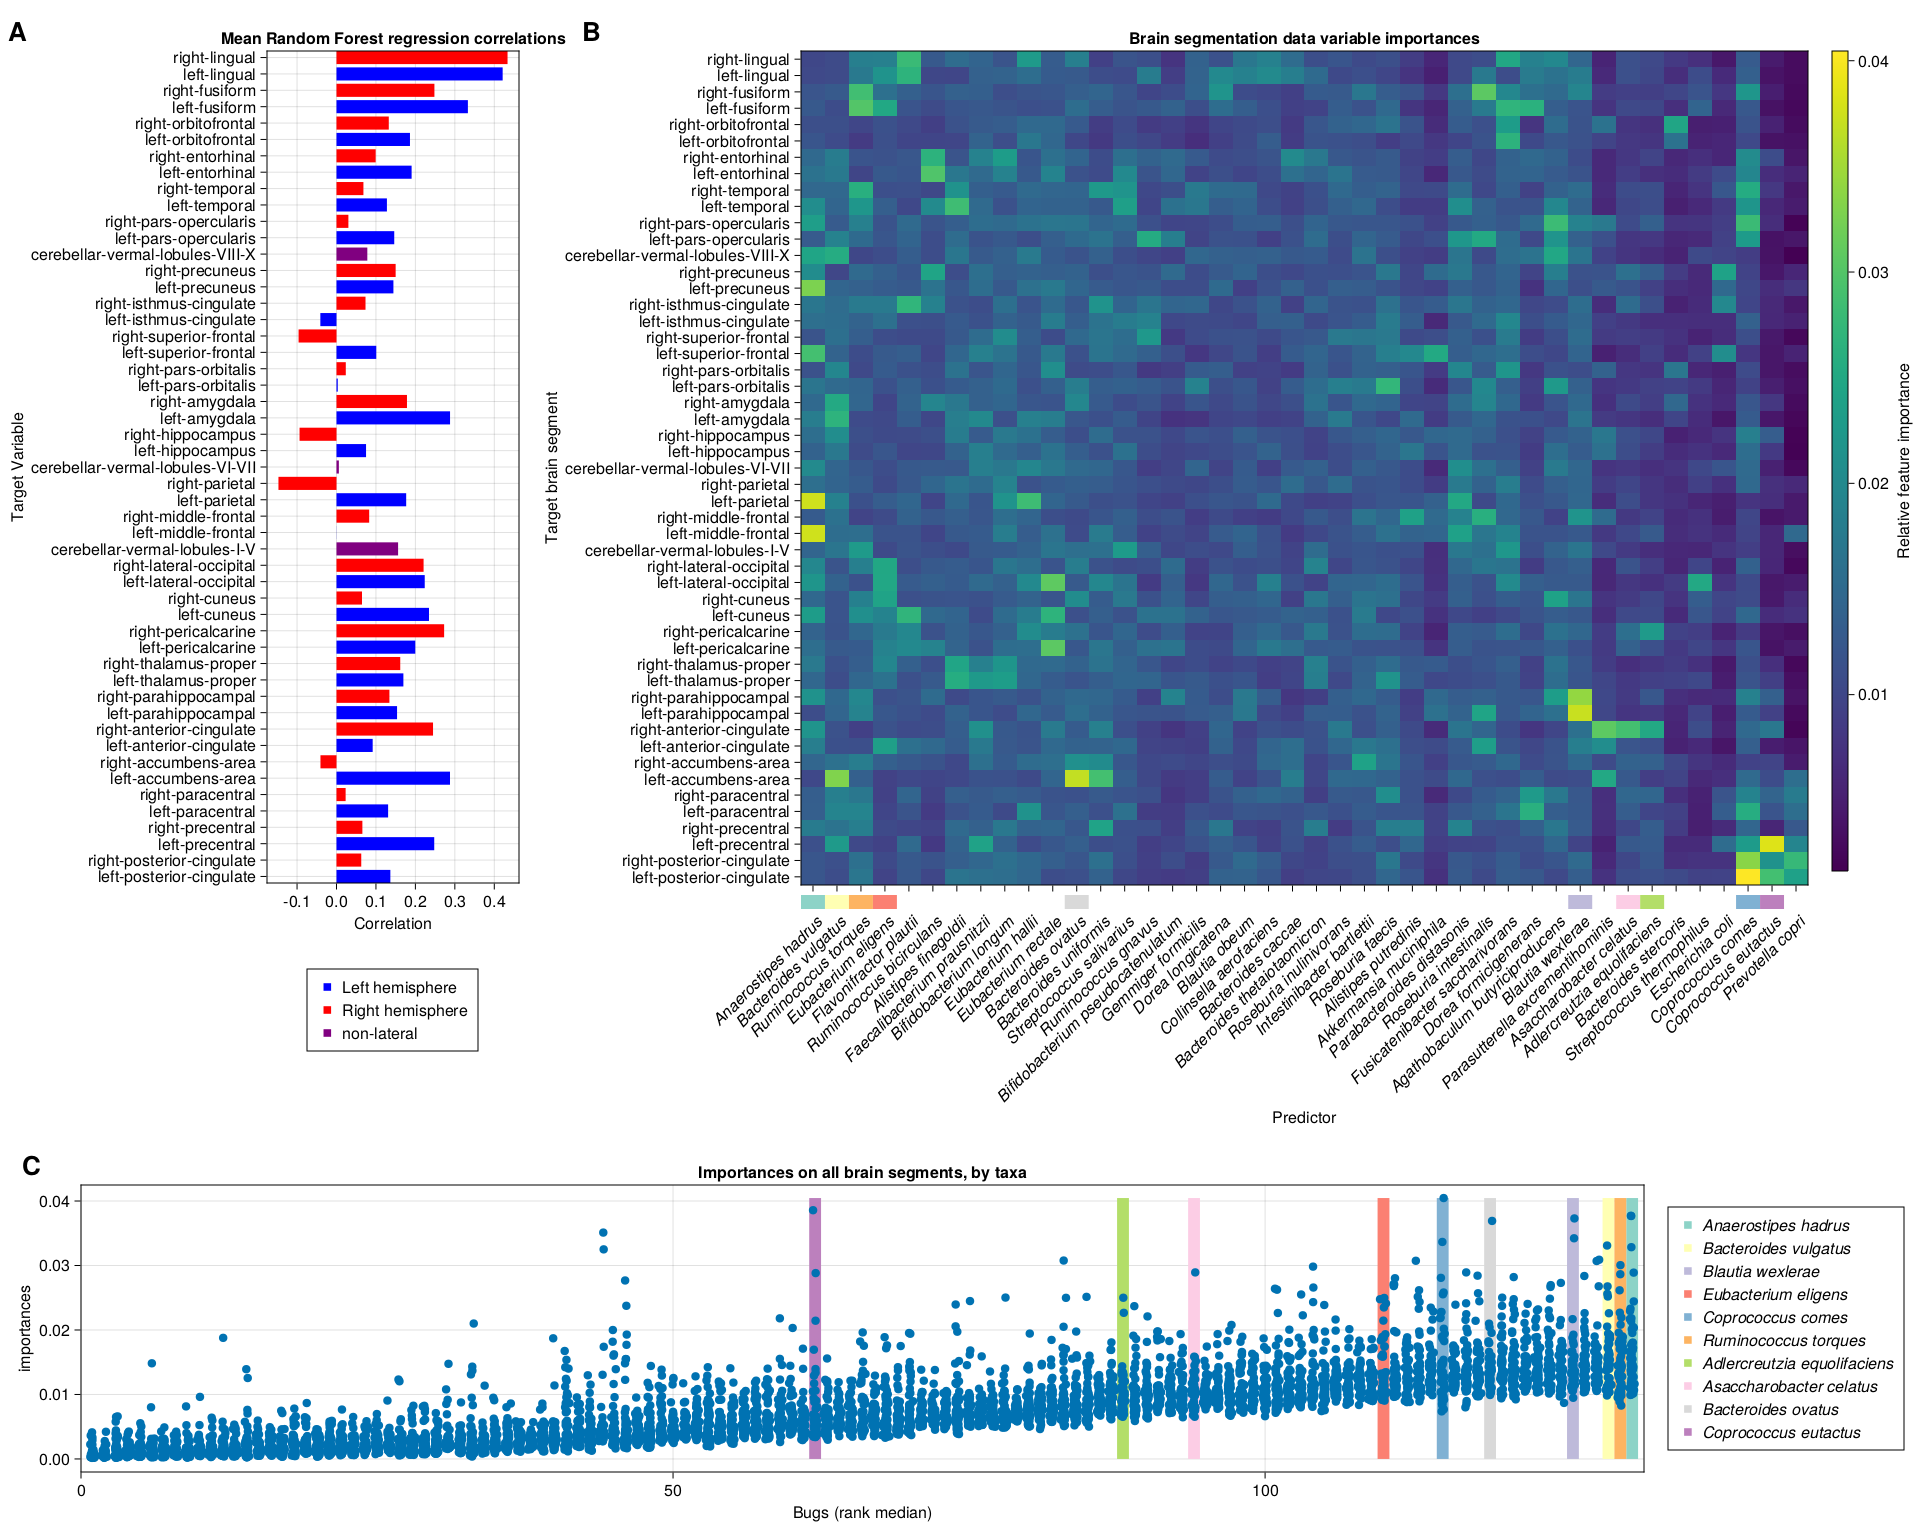
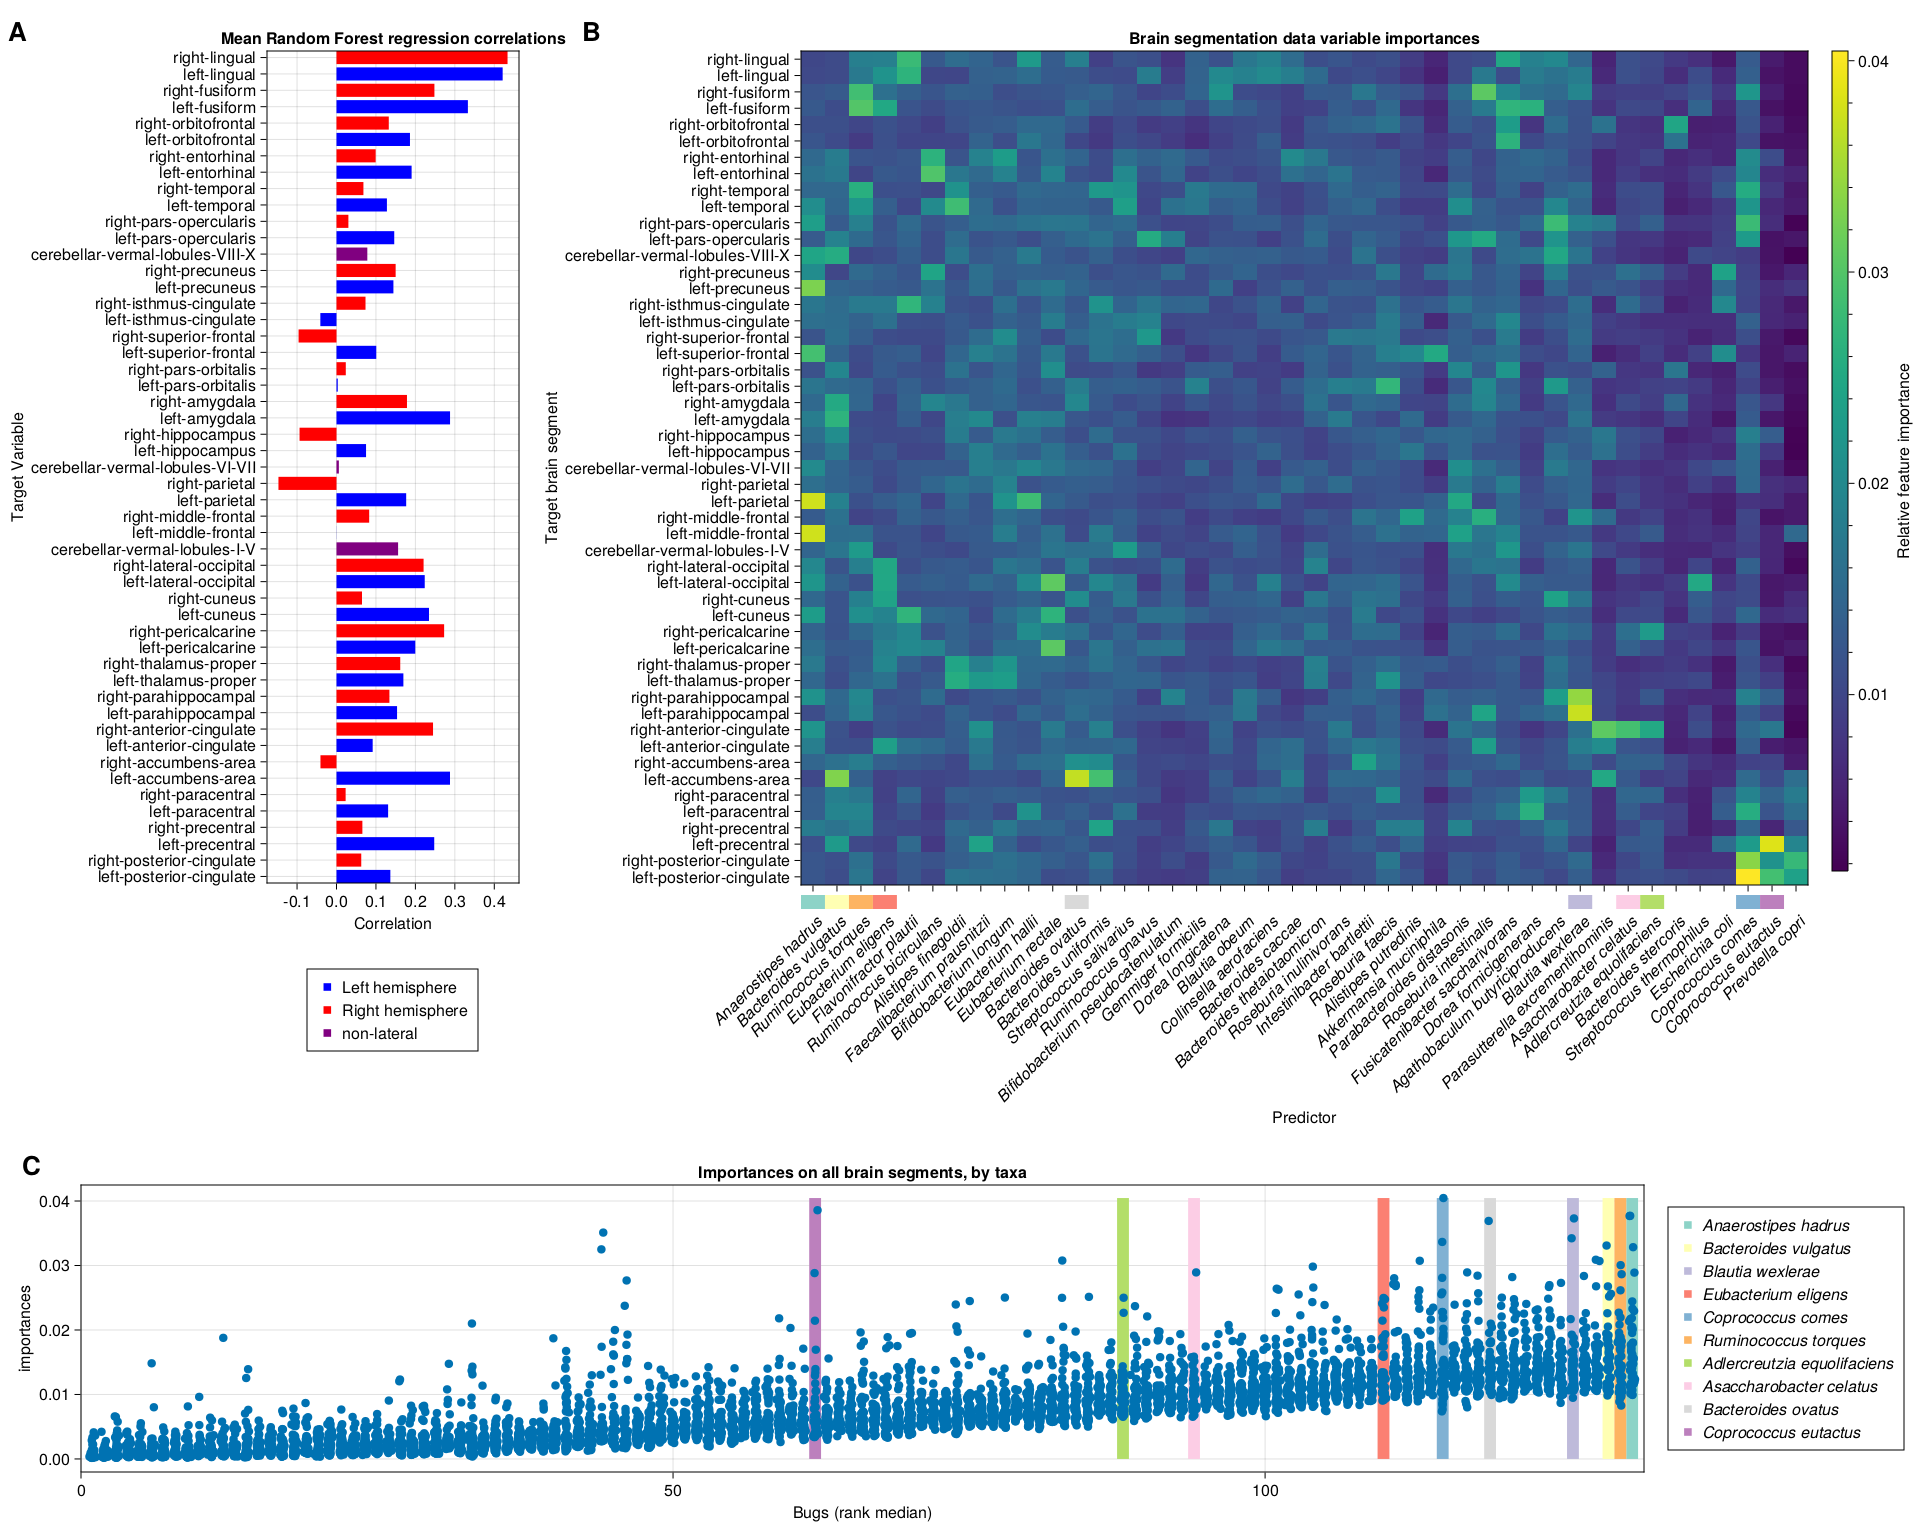
add minor ticks to fig4 colorbar

Changed region(s): [[0.0625, 0.8438, 0.8438, 0.9375]]

diff --git a/manuscript/Figure4.md b/manuscript/Figure4.md
@@ -231,7 +231,7 @@ let
         end
     end
 end
-Colorbar(AB_Subfig[1,3], hm; label= "Relative feature importance")
+Colorbar(AB_Subfig[1,3], hm; label= "Relative feature importance", ticks=0:0.01:0.04, minorticksvisible=true)
 ```
 
 
